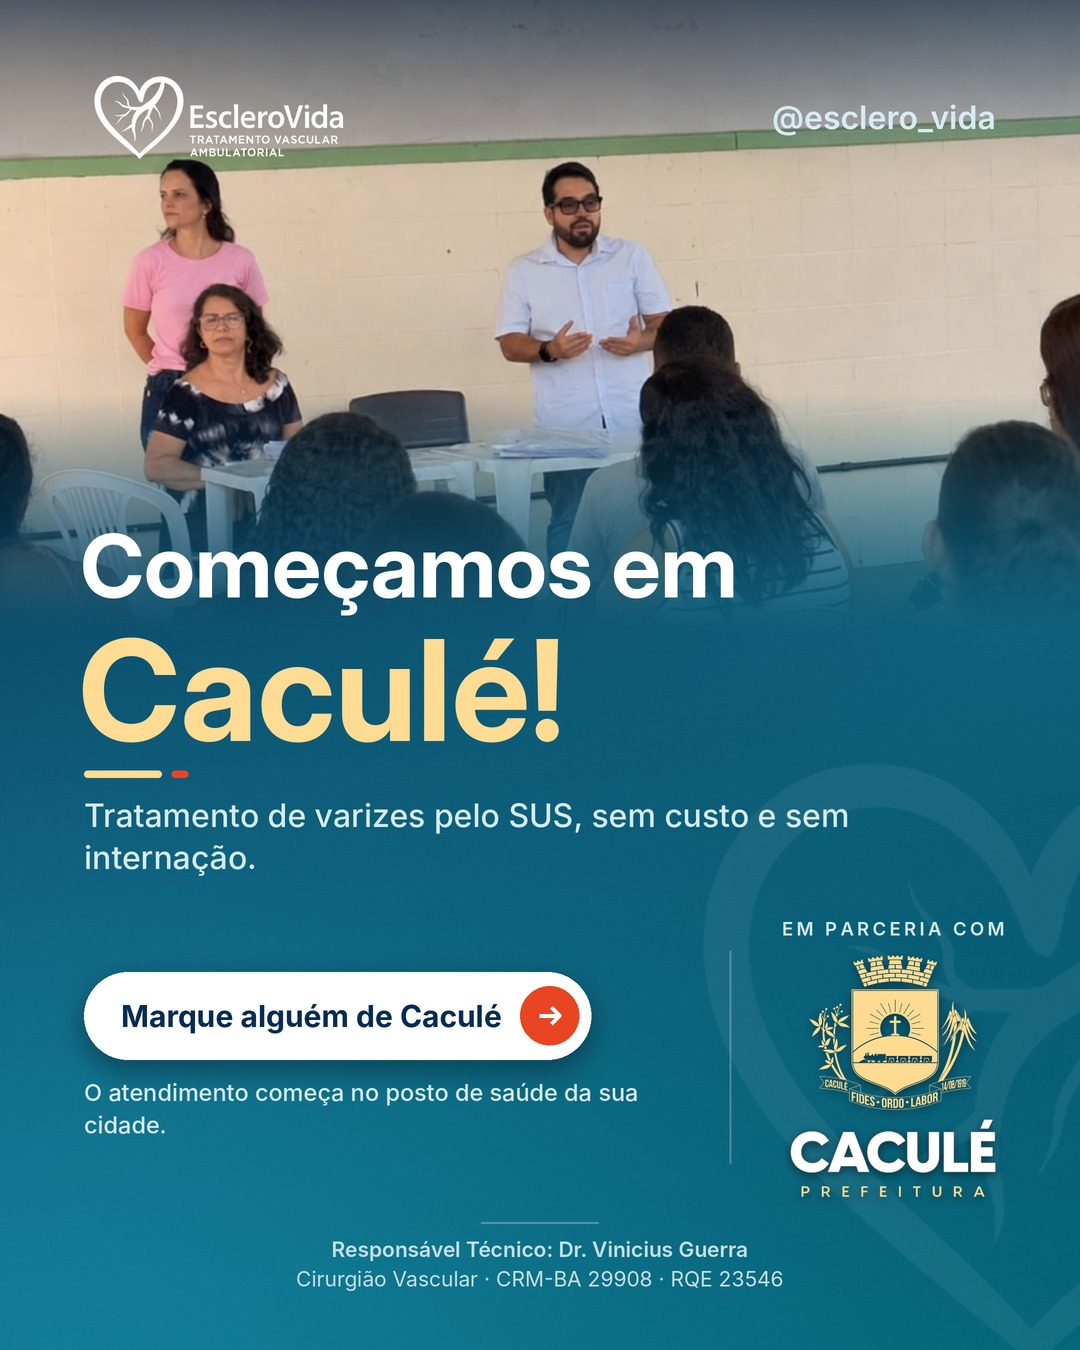
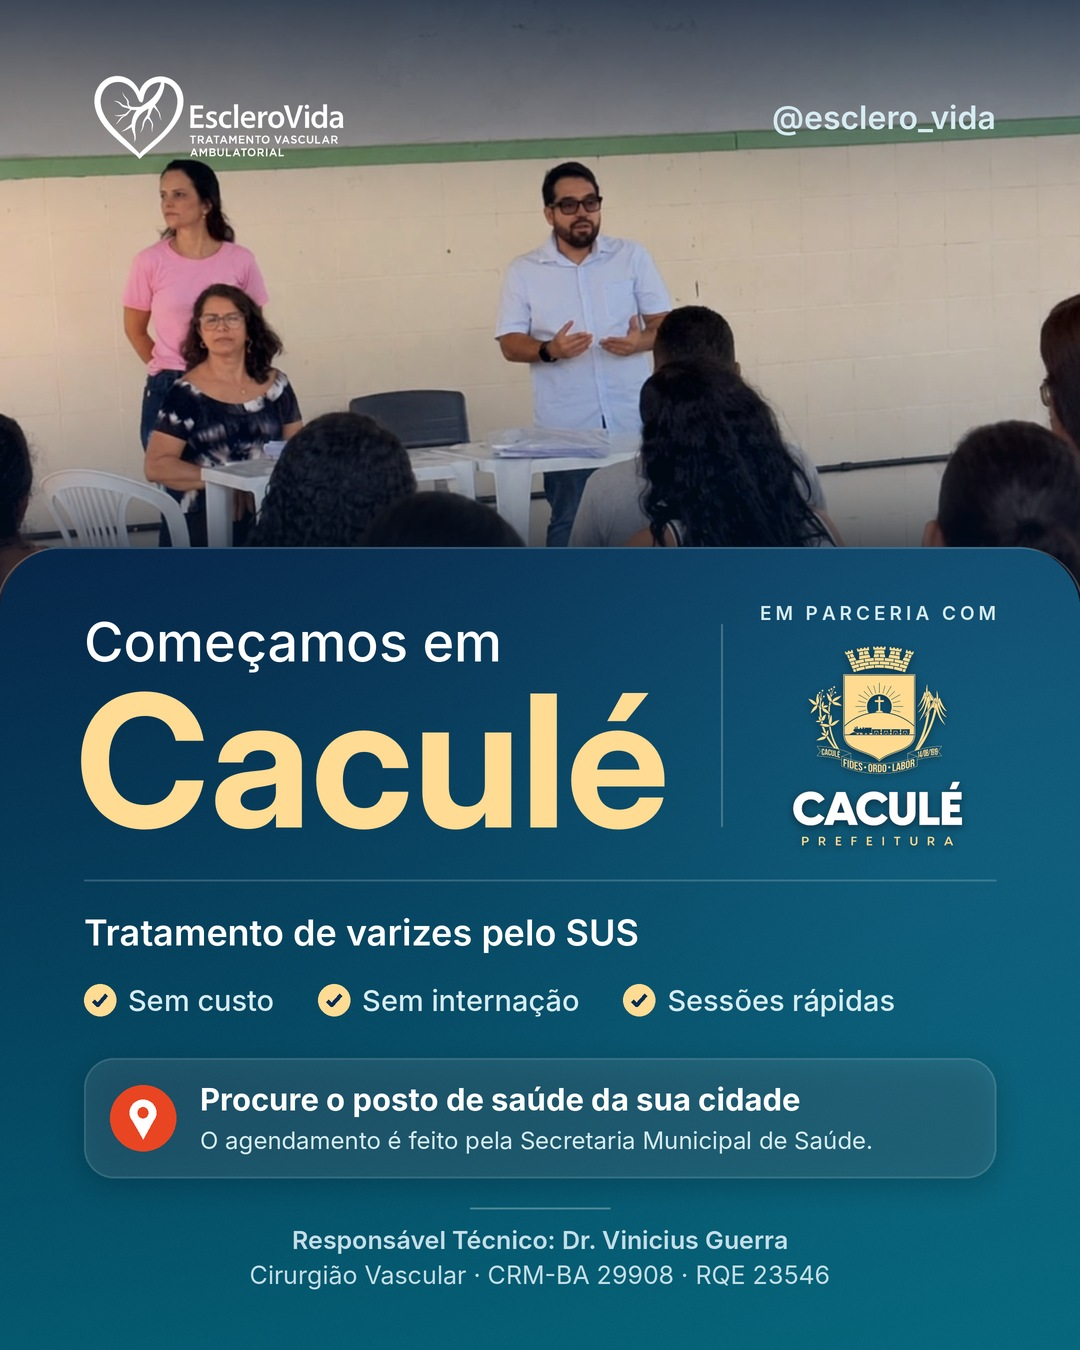
Caculé: arte de anúncio refeita em novo layout (gerador/anuncio.py)
Claude-Session: https://claude.ai/code/session_01M29iTLLFwMWrnxrojtZwME

diff --git a/gerador/anuncio.py b/gerador/anuncio.py
@@ -1,0 +1,252 @@
+"""Arte de anúncio com foto (ex.: início dos atendimentos em um município).
+
+Uso:
+    python3 -I gerador/anuncio.py arte.json foto.jpg logo_parceiro.png saida.jpg [--legenda legenda.txt]
+
+Visual: foto tratada no topo, "folha" azul de cantos arredondados subindo sobre a foto,
+nome da cidade em destaque, logo do parceiro ao lado do título, linha de benefícios e
+faixa com o caminho do SUS. O rodapé do Responsável Técnico sai sempre.
+
+JSON:
+    {
+      "formato": "feed" | "story",
+      "titulo_pre": "Começamos em",
+      "cidade": "Caculé",
+      "subtitulo": "Tratamento de varizes pelo SUS",
+      "itens": ["Sem custo", "Sem internação", "Sessões rápidas"],     # até 3, curtos
+      "cta_titulo": "Procure o posto de saúde da sua cidade",
+      "cta_texto": "O agendamento é feito pela Secretaria Municipal de Saúde.",
+      "rotulo": "EM PARCERIA COM",          # texto acima da logo do parceiro
+      "recorte": [x0, y0, x1, y1],          # área da foto a usar (0 a 1)
+      "cor_destaque": [r, g, b],            # cor do nome da cidade (ex.: cor do município)
+      "cor_acento": [r, g, b],              # cor do ícone da faixa
+      "logo2_altura": 200
+    }
+Use só fotos sem pacientes identificáveis e logo do parceiro em PNG transparente.
+"""
+import json
+import os
+import sys
+
+import numpy as np
+from PIL import Image, ImageDraw, ImageEnhance, ImageFilter
+
+sys.path.insert(0, os.path.dirname(os.path.abspath(__file__)))
+import render as R  # noqa: E402
+
+S = R.S
+WHITE = (255, 255, 255)
+NAVY = np.array([5, 28, 58], dtype=np.float32)
+
+
+def preparar_foto(caminho, recorte, W, hp):
+    f = Image.open(caminho).convert("RGB")
+    x0, y0, x1, y1 = recorte
+    f = f.crop((round(x0 * f.width), round(y0 * f.height), round(x1 * f.width), round(y1 * f.height)))
+    esc = max(W / f.width, hp / f.height)
+    f = f.resize((round(f.width * esc), round(f.height * esc)), Image.LANCZOS)
+    left = (f.width - W) // 2
+    f = f.crop((left, 0, left + W, hp))
+    f = ImageEnhance.Contrast(f).enhance(1.07)
+    f = ImageEnhance.Color(f).enhance(1.06)
+    a = np.asarray(f).astype(np.float32)
+    a = a * 0.90 + NAVY * 0.10                       # leve tom azul, para unir à marca
+    yy = np.linspace(0, 1, hp, dtype=np.float32)[:, None, None]
+    topo = np.clip(1 - yy / 0.36, 0, 1) ** 1.4 * 0.66   # escurece o topo (logo legível)
+    base = np.clip((yy - 0.50) / 0.50, 0, 1) ** 1.3 * 0.60
+    m = np.maximum(topo, base)
+    a = a * (1 - m) + NAVY * m
+    return Image.fromarray(np.clip(a, 0, 255).astype(np.uint8), "RGB")
+
+
+def gradiente(W, H, ys):
+    yy, xx = np.mgrid[0:H, 0:W].astype(np.float32)
+    t = np.clip((yy - ys) / max(1, H - ys), 0, 1)
+    t = (t * 0.88 + xx / W * 0.12)[..., None]
+    img = R.BG_TOP * (1 - t) + R.BG_BOT * t
+    d2 = (xx / W - 1.0) ** 2 + ((yy - ys) / W - 0.05) ** 2
+    img = img + np.exp(-d2 / (2 * 0.40 ** 2))[..., None] * np.array([40, 120, 130]) * 0.30
+    img = img + np.random.default_rng(7).normal(0, 1.5, (H, W, 1))
+    return Image.fromarray(np.clip(img, 0, 255).astype(np.uint8), "RGB")
+
+
+def espacado(d, x, y, texto, f, fill, sp, centro=False):
+    w = sum(d.textlength(ch, font=f) + sp for ch in texto) - sp
+    if centro:
+        x -= w / 2
+    for ch in texto:
+        d.text((x, y), ch, font=f, fill=fill, anchor="ls")
+        x += d.textlength(ch, font=f) + sp
+    return w
+
+
+def pin(d, cx, cy, r, cor, furo):
+    r1 = r * 0.40
+    hy = cy - r * 0.16
+    d.ellipse([cx - r1, hy - r1, cx + r1, hy + r1], fill=cor)
+    k = 2.0
+    py, px = r1 / k, r1 * (1 - (1 / k) ** 2) ** 0.5
+    d.polygon([(cx - px, hy + py), (cx + px, hy + py), (cx, hy + k * r1)], fill=cor)
+    ri = r1 * 0.40
+    d.ellipse([cx - ri, hy - ri, cx + ri, hy + ri], fill=furo)
+
+
+def render(p, foto, logo2, saida):
+    fmt = R.FORMATOS[p["formato"]]
+    W, H = fmt["w"] * S, fmt["h"] * S
+    sc = 1.0 if p["formato"] == "feed" else 1.17
+    c = R.Ctx(fmt, sc)
+    z = c.z
+    M, CW = c.M, c.CW
+    creme = tuple(p.get("cor_destaque", (255, 219, 147)))
+    acento = tuple(p.get("cor_acento", (233, 69, 34)))
+    md = ImageDraw.Draw(Image.new("RGB", (10, 10)))
+
+    # ---------- medidas ----------
+    lg2 = Image.open(logo2).convert("RGBA")
+    L = z(p.get("logo2_altura", 200))
+    lw2 = L * lg2.width / lg2.height
+    rot = p.get("rotulo", "EM PARCERIA COM")
+    f_rot = R.font("Inter-SemiBold.otf", z(19))
+    rot_w = sum(md.textlength(ch, font=f_rot) + z(4) for ch in rot) - z(4)
+    bloco_w = max(lw2, rot_w)
+    bloco_h = z(19) + z(22) + L
+
+    f_pre = R.font("Inter-Medium.otf", z(54))
+    disp = CW - bloco_w - z(76)
+    size = z(196)
+    while True:
+        f_cid = R.font("InterDisplay-Bold.otf", size)
+        if md.textlength(p["cidade"], font=f_cid) <= disp or size <= z(110):
+            break
+        size -= z(4)
+    bb = f_cid.getbbox(p["cidade"], anchor="ls")
+    asc, desc = -bb[1], max(0, bb[3])
+    pre_asc = z(54) * 0.74
+    tit_h = pre_asc + z(30) + asc + desc
+    row_h = max(tit_h, bloco_h)
+
+    f_sub = R.font("Inter-SemiBold.otf", z(36))
+    f_it = R.font("Inter-Medium.otf", z(29))
+    itens = p.get("itens", [])[:3]
+    h_bar = z(120)
+    _, h_rod = R.b_rodape(c, None, md, 0, False)
+
+    blocos = [z(58), row_h, z(34), 2 * S, z(36), z(36), z(26), z(40), z(38), h_bar, z(30), h_rod]
+    fim = fmt["fim"] * S
+    ys = fim - sum(blocos)                     # topo da folha
+    Rr = z(64)
+
+    # ---------- foto + folha ----------
+    hp = round(ys + Rr + z(30))
+    img = Image.new("RGBA", (W, H), tuple(int(v) for v in NAVY) + (255,))
+    img.paste(preparar_foto(foto, p.get("recorte", [0, 0, 1, 1]), W, hp), (0, 0))
+    sh = R.camada(img)
+    ImageDraw.Draw(sh).rounded_rectangle([-8, ys - z(6), W + 8, H + Rr], radius=Rr, fill=(0, 12, 30, 170))
+    img = Image.alpha_composite(img, sh.filter(ImageFilter.GaussianBlur(z(30))))
+    mask = Image.new("L", (W, H), 0)
+    ImageDraw.Draw(mask).rounded_rectangle([0, ys, W, H + Rr], radius=Rr, fill=255)
+    img.paste(gradiente(W, H, ys), (0, 0), mask)
+    lay = R.camada(img)
+    ImageDraw.Draw(lay).rounded_rectangle([-8, ys, W + 8, H + Rr], radius=Rr, outline=WHITE + (46,), width=2 * S)
+    img = Image.alpha_composite(img, lay)
+
+    # ---------- cabeçalho ----------
+    alpha = R.logo_rgba()
+    lw = fmt["logo_w"] * S
+    lh = round(alpha.height * lw / alpha.width)
+    img = R.cabecalho(img, alpha, fmt, lw, lh)
+    d = ImageDraw.Draw(img)
+
+    # ---------- título + logo do parceiro ----------
+    y = ys + blocos[0]
+    ty = y + (row_h - tit_h) / 2
+    d.text((M, ty + pre_asc), p["titulo_pre"], font=f_pre, fill=WHITE, anchor="ls")
+    d.text((M - size * 0.045, ty + pre_asc + z(30) + asc), p["cidade"], font=f_cid, fill=creme, anchor="ls")
+
+    by = y + (row_h - bloco_h) / 2
+    cx = W - M - bloco_w / 2
+    espacado(d, cx, by + z(19) * 0.78, rot, f_rot, R.SOFT, z(4), centro=True)
+    lg = lg2.resize((round(lw2), round(L)), Image.LANCZOS)
+    lx, ly = round(cx - lw2 / 2), round(by + z(19) + z(22))
+    sh = R.camada(img)
+    som = Image.new("RGBA", lg.size, (0, 14, 30, 0))
+    som.putalpha(lg.getchannel("A").point(lambda v: v * 0.5))
+    sh.alpha_composite(som, (lx, ly + round(L * 0.012)))
+    img = Image.alpha_composite(img, sh.filter(ImageFilter.GaussianBlur(L * 0.02)))
+    img.alpha_composite(lg, (lx, ly))
+    lay = R.camada(img)
+    ld = ImageDraw.Draw(lay)
+    xs = W - M - bloco_w - z(38)
+    ld.line([(xs, y + row_h * 0.08), (xs, y + row_h * 0.92)], fill=WHITE + (56,), width=2 * S)
+    y += row_h + blocos[2]
+    ld.line([(M, y), (W - M, y)], fill=WHITE + (44,), width=2 * S)
+    img = Image.alpha_composite(img, lay)
+    d = ImageDraw.Draw(img)
+    y += blocos[3] + blocos[4]
+
+    # ---------- subtítulo + benefícios ----------
+    d.text((M, y + z(36) * 0.76), p["subtitulo"], font=f_sub, fill=WHITE, anchor="ls")
+    y += blocos[5] + blocos[6]
+    r = z(16)
+    tam = z(29)
+    while True:                                # reduz a fonte até a linha caber
+        f_it = R.font("Inter-Medium.otf", tam)
+        larg = [2 * r + z(12) + d.textlength(t, font=f_it) for t in itens]
+        folga = (CW - sum(larg)) / max(1, len(itens) - 1)
+        if folga >= z(22) or tam <= z(20):
+            break
+        tam -= z(1)
+    folga = min(folga, z(44))
+    x = M
+    cy = y + z(20)
+    for t, w in zip(itens, larg):
+        R.icone_check(d, x + r, cy, r, cor=creme, traco=R.DEEP)
+        d.text((x + 2 * r + z(12), cy), t, font=f_it, fill=R.SOFT, anchor="lm")
+        x += w + folga
+    y += blocos[7] + blocos[8]
+
+    # ---------- faixa: caminho do SUS ----------
+    img = R.vidro(img, [M, y, W - M, y + h_bar], z(30), fill_a=24, line_a=48, sombra=True)
+    d = ImageDraw.Draw(img)
+    ri = z(33)
+    icx, icy = M + z(26) + ri, y + h_bar / 2
+    d.ellipse([icx - ri, icy - ri, icx + ri, icy + ri], fill=acento)
+    pin(d, icx, icy, ri, WHITE, acento)
+    tx = icx + ri + z(24)
+    disp_tx = W - M - z(28) - tx
+    for txt, fname, tam, dy, cor in ((p["cta_titulo"], "Inter-Bold.otf", z(31), -z(19), WHITE),
+                                     (p["cta_texto"], "Inter-Regular.otf", z(24), z(22), R.SOFT)):
+        while d.textlength(txt, font=R.font(fname, tam)) > disp_tx and tam > z(16):
+            tam -= z(0.5)
+        d.text((tx, icy + dy), txt, font=R.font(fname, tam), fill=cor, anchor="lm")
+    y += h_bar + blocos[10]
+
+    # ---------- rodapé ----------
+    img, _ = R.b_rodape(c, img, d, y, True)
+
+    out = img.convert("RGB").resize((fmt["w"], fmt["h"]), Image.LANCZOS)
+    out.save(saida, "JPEG", quality=93, optimize=True)
+
+
+def main():
+    args = sys.argv[1:]
+    if len(args) < 4:
+        raise SystemExit(__doc__)
+    p = json.load(open(args[0], encoding="utf-8"))
+    texto = " \n ".join([p["titulo_pre"], p["cidade"], p["subtitulo"], p["cta_titulo"], p["cta_texto"],
+                         p.get("rotulo", "")] + p.get("itens", []))
+    erros = R.checar_texto(texto, "arte")
+    if "--legenda" in args:
+        leg = open(args[args.index("--legenda") + 1], encoding="utf-8").read()
+        erros += R.checar_texto(leg, "legenda")
+        if R.RT_LEGENDA not in leg:
+            erros.append("legenda: falta a linha do Responsável Técnico (CRM-BA 29908)")
+    if erros:
+        raise SystemExit("ERRO:\n" + "\n".join(erros))
+    render(p, args[1], args[2], args[3])
+    print(f"ok: {args[3]}")
+
+
+if __name__ == "__main__":
+    main()
